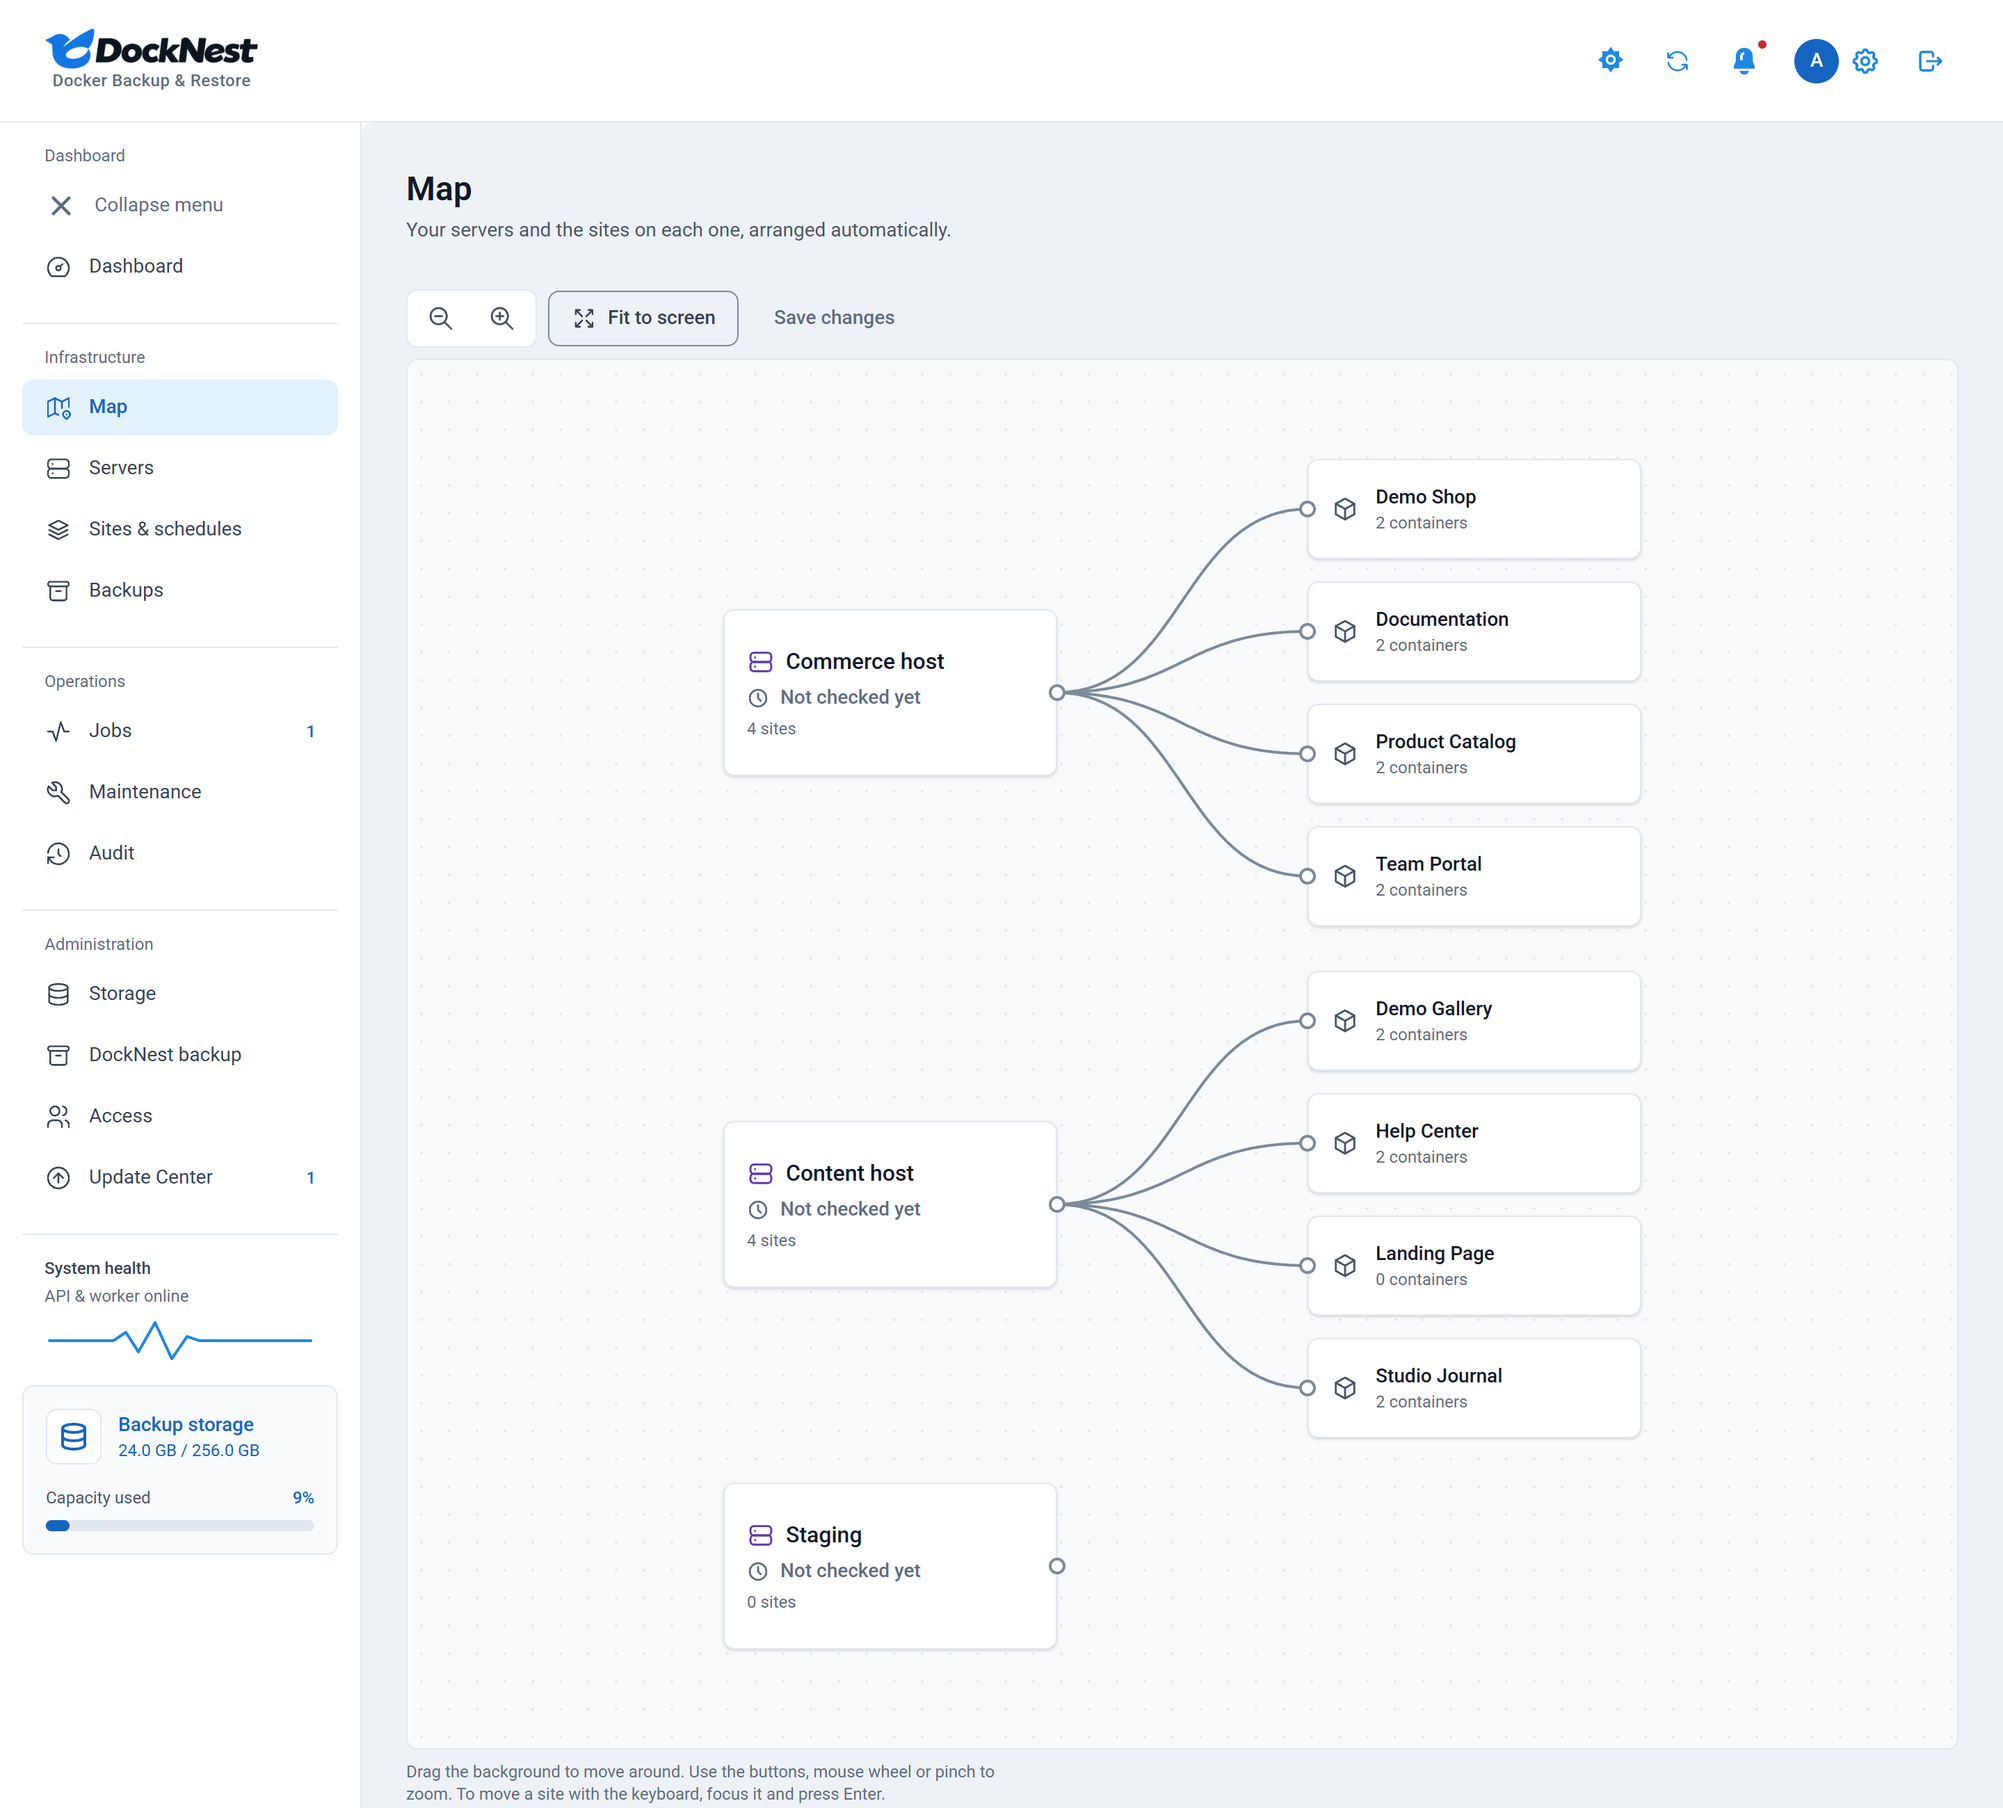
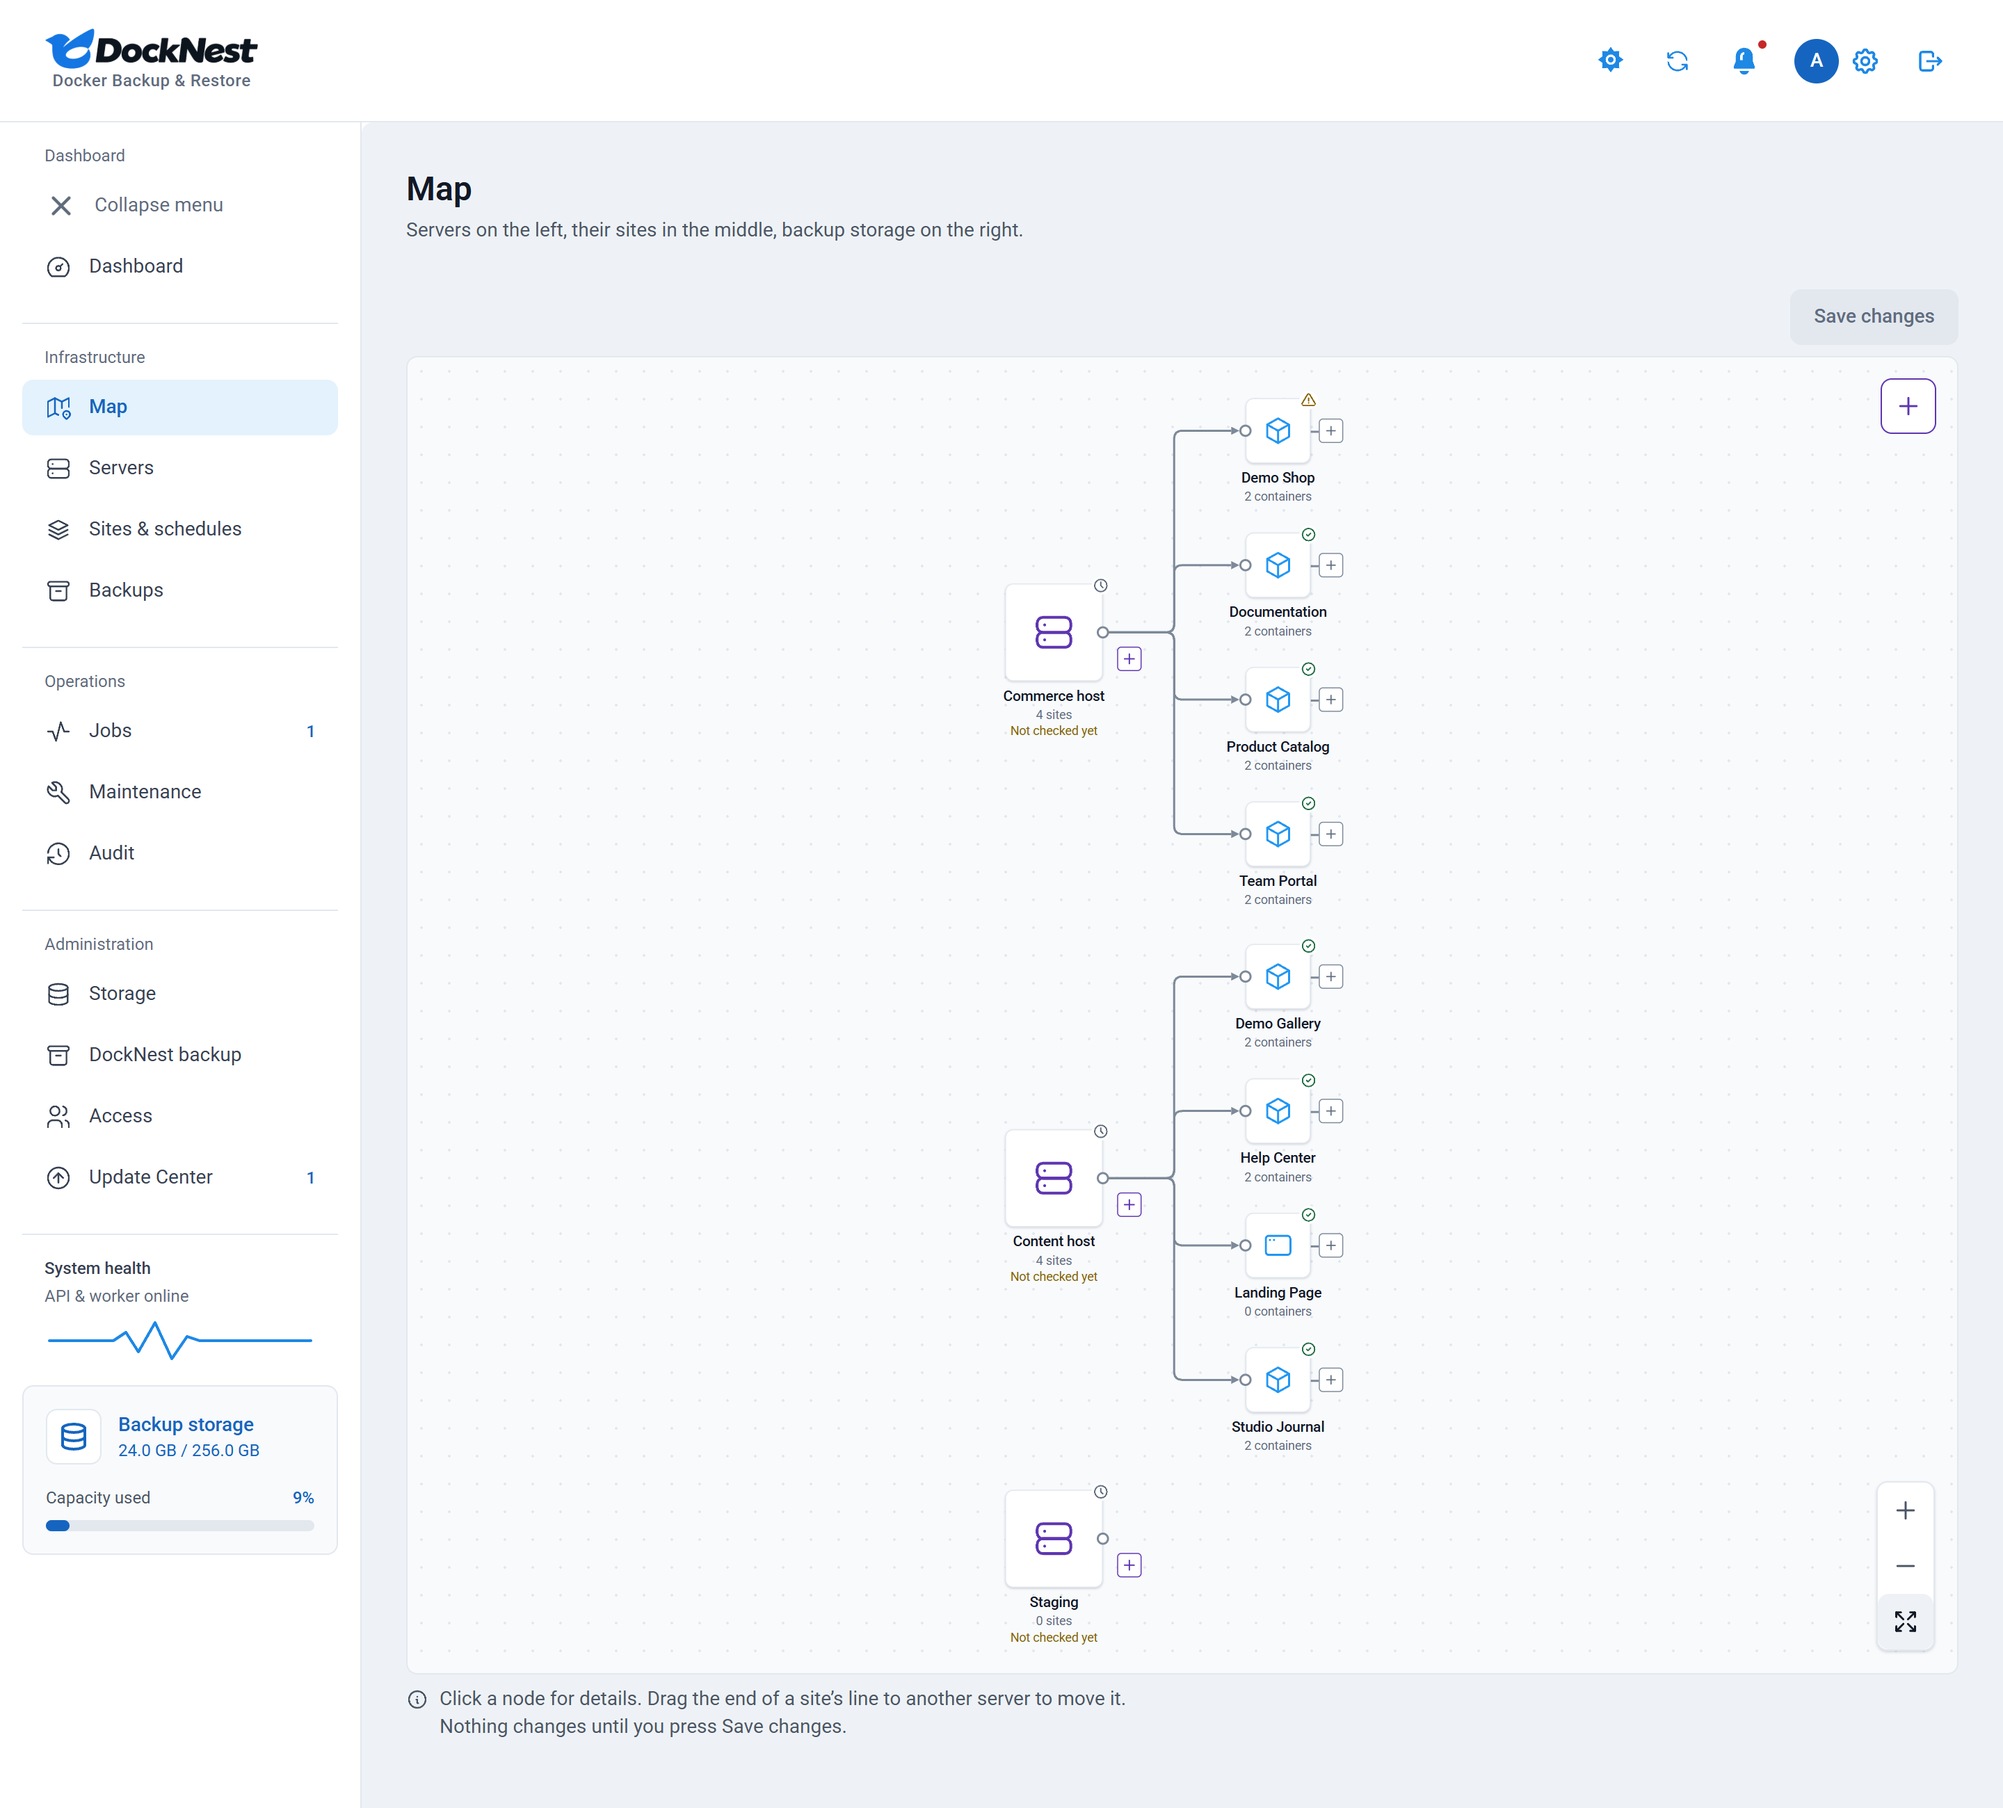
chore(release): 2.7.0

diff --git a/docs/releases/2026-10-24-v2.7.0.md b/docs/releases/2026-10-24-v2.7.0.md
@@ -1,0 +1,34 @@
+---
+security: true
+features: 3
+improvements: 2
+fixes: 3
+---
+# DockNest 2.7.0
+
+A new Map you can work on like a flow: see servers, sites and backup storage connected, click anything for details, and move sites by moving their line.
+
+## New
+
+- **Map v2.** Servers, sites and backup storage as connected nodes. Click a node for its details; a site shows its domains, containers and the databases that move with it.
+- **Move by reconnecting.** Pull a site's line off its server and drop it on another one. Save changes stays off until every site is connected again.
+- **Install what a server is missing.** When a move needs nginx, Docker, Docker Compose or certbot, choose **Install** (you confirm with your password and code) or **Show command** to run it yourself.
+
+## Better
+
+- The map opens at regular size and fits the height of your screen; zoom out only when you want to.
+- Messages when a server cannot take a site are short and say what to do.
+
+## Fixed
+
+- The Update now button was blocked for a day after a few attempts that changed nothing. Only real updates count now, and the message says when you can try again.
+- On phones, "Move to…" shows long reasons in full and its buttons sit clear of the bottom of the screen.
+- The new release notes are shorter and written for you, not for developers.
+
+## Security
+
+- Installing on a server uses only a fixed list of packages from the server's own sources, never removes anything, and needs a fresh password and code.
+
+## Before you update
+
+- After this update, run `sudo scripts/install-updater.sh --repair` once on the server, so the updater gets its fix.

diff --git a/README.md b/README.md
@@ -47,9 +47,11 @@ DockNest is a self-hosted web app. It connects to your Linux servers over SSH, b
 - Light and dark themes, and a layout for phones.
 
 **Map and moving sites**
-- A Map page shows your servers and the sites on each one, arranged automatically, with zoom, Fit to screen and a list on phones.
+- A Map page shows your servers, their sites and your backup storage as connected nodes. Click any node for its details, such as the databases that move with a site.
+- The "+" on a server lists sites DockNest found there that you have not added yet.
 - Administrators move a site to another server by dragging it to that server and pressing Save changes. DockNest shows how long the move takes and how long the site is offline, then backs up the site, tests a copy on the new server and waits for your DNS change before switching.
 - The old copy is kept stopped for 7 days, so you can switch back. Removing it is never automatic. See [moving sites](docs/moving-sites.md).
+- When the new server is missing nginx, Docker, Docker Compose or certbot, DockNest can install it for you after you confirm, or show you the command to run yourself.
 
 **Security**
 - Backups are encrypted with AES-256-GCM.

diff --git a/CHANGELOG.md b/CHANGELOG.md
@@ -4,6 +4,10 @@ All notable changes to DockNest are documented here. The format follows [Keep a 
 
 ## [Unreleased]
 
+## [2.7.0] - 2026-10-24
+
+See [docs/releases/2026-10-24-v2.7.0.md](docs/releases/2026-10-24-v2.7.0.md).
+
 ### Added
 
 - Moving a site: when the new server lacks nginx, Docker, Docker Compose 2 or certbot, an administrator can ask DockNest to install it (optional; confirmed with re-verification, with a "Show command" line to run it yourself). Supported on Debian and Ubuntu (apt) and Fedora, Rocky, AlmaLinux and RHEL (dnf) with the system's own packages only: no repositories added, no scripts downloaded, no configuration edited, nothing removed. Backend: `POST /api/servers/:id/install`, a fixed package list and argv in the remote helper, the `install` field on preflight checks, and a new additive `server_installs` table (schema v7). See docs/moving-sites.md and docs/security.md.
